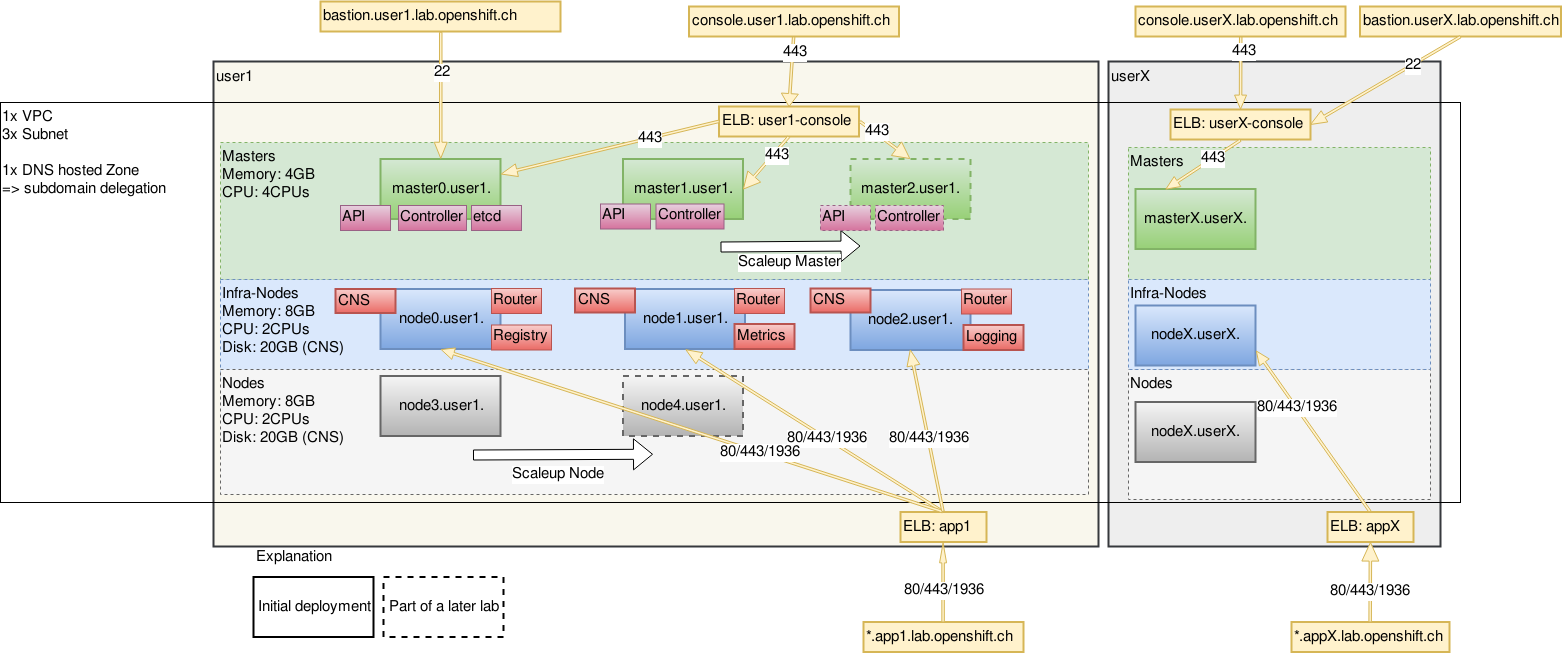
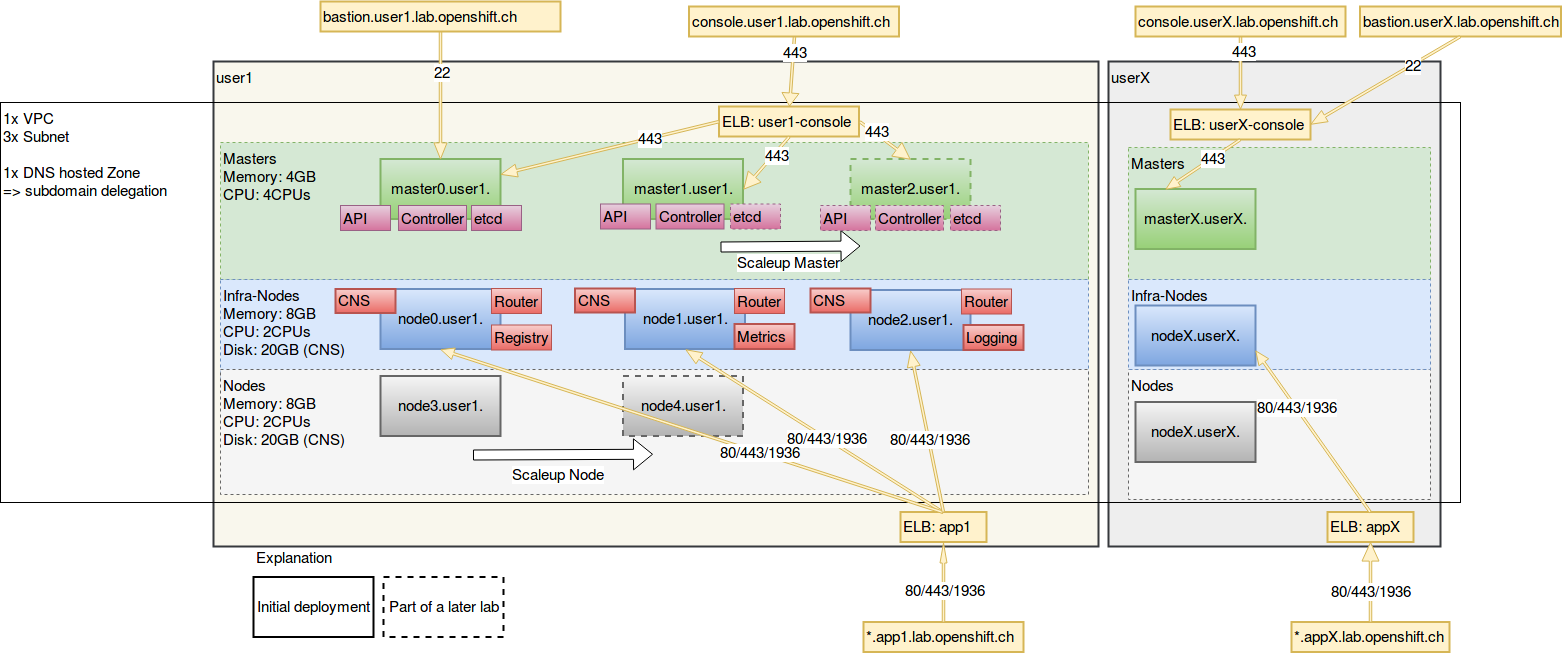
Revert "Remove etcd scaleup"
This reverts commit 7aec99798c8dc8126f532b5e387f9d313e58f4dc.

diff --git a/appendices/01_etcd_scaleup.md b/appendices/01_etcd_scaleup.md
@@ -1,0 +1,48 @@
+# Appendix 2: etcd Scaleup
+
+This appendix is going to show you how to do a scaleup of etcd hosts.
+
+
+## Adapt Inventory
+
+Uncomment the new etcd hosts in the Ansible inventory in the (`[new_etcd]`) section.
+```
+...
+[etcd]
+master0.user[X].lab.openshift.ch
+
+[new_etcd]
+master1.user[X].lab.openshift.ch
+master2.user[X].lab.openshift.ch
+...
+```
+
+## Scaleup
+
+Execute the playbook responsible for the etcd scaleup:
+```
+ansible-playbook /usr/share/ansible/openshift-ansible/playbooks/byo/openshift-etcd/scaleup.yml
+```
+
+
+## Verification and Finalization
+
+Verify your installation now consists of the original cluster plus one new etcd member:
+```
+sudo etcdctl -C https://master0.user[X].lab.openshift.ch:2379 --ca-file=/etc/origin/master/master.etcd-ca.crt --cert-file=/etc/origin/master/master.etcd-client.crt --key-file=/etc/origin/master/master.etcd-client.key cluster-health
+```
+
+Move the now functional etcd members from the group `[new_etcd]` to `[etcd]` in your Ansible inventory at `/etc/ansible/hosts` so the group looks like:
+```
+...
+[etcd]
+master0.user[X].lab.openshift.ch
+master1.user[X].lab.openshift.ch
+master2.user[X].lab.openshift.ch
+```
+
+
+---
+
+[← back to the labs overview](../README.md)
+

diff --git a/README.md b/README.md
@@ -28,6 +28,7 @@ There's a [Troubleshooting Cheat Sheet](resources/troubleshooting_cheat_sheet.md
 
 ## Appendices
 
+1. [etcd Scaleup](appendices/01_etcd_scaleup.md)
 2. [Monitoring with Prometheus](appendices/02_prometheus.md)
 3. [Useful Internet Resources](appendices/03_internet_resources.md)
 
